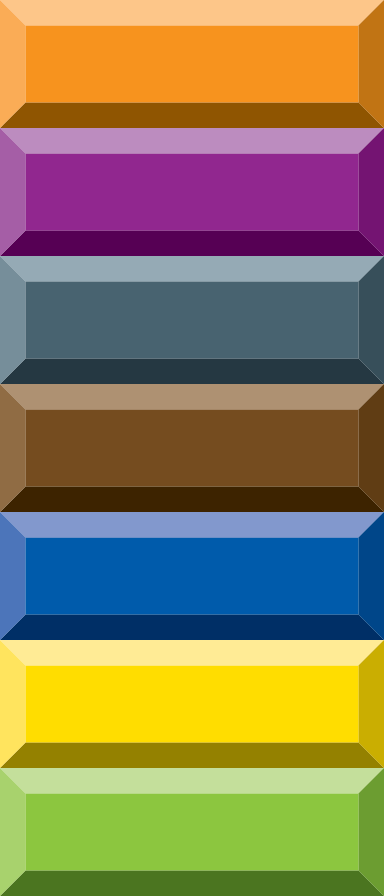
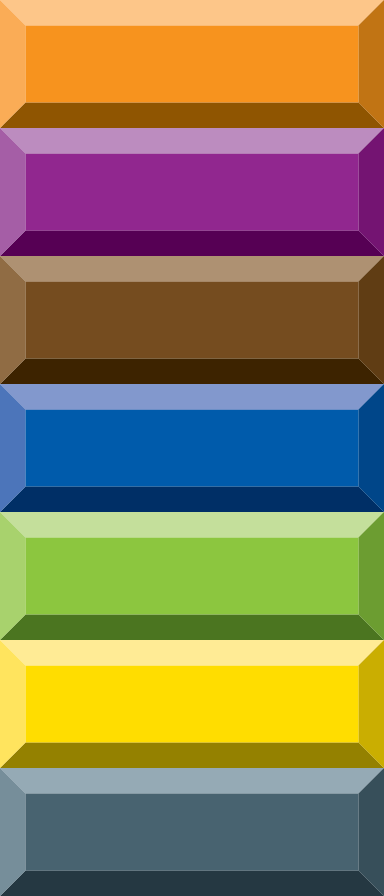
Added json bricks type

diff --git a/app/src/main/cpp/game/components/LevelSystem.h b/app/src/main/cpp/game/components/LevelSystem.h
@@ -36,7 +36,6 @@ public:
     }
 
     void onAwake() override {
-
         createLevel(currentLevel);
     }
 
@@ -51,7 +50,8 @@ public:
         for (auto& b : j["bricks"]) {
             int x = b["x"].get<int>();
             int y = b["y"].get<int>();
-            createBrick(x, y, 0);
+            int type = b["type"].get<int>();
+            createBrick(x, y, type);
         }
 
         onlevelStart.invoke();
